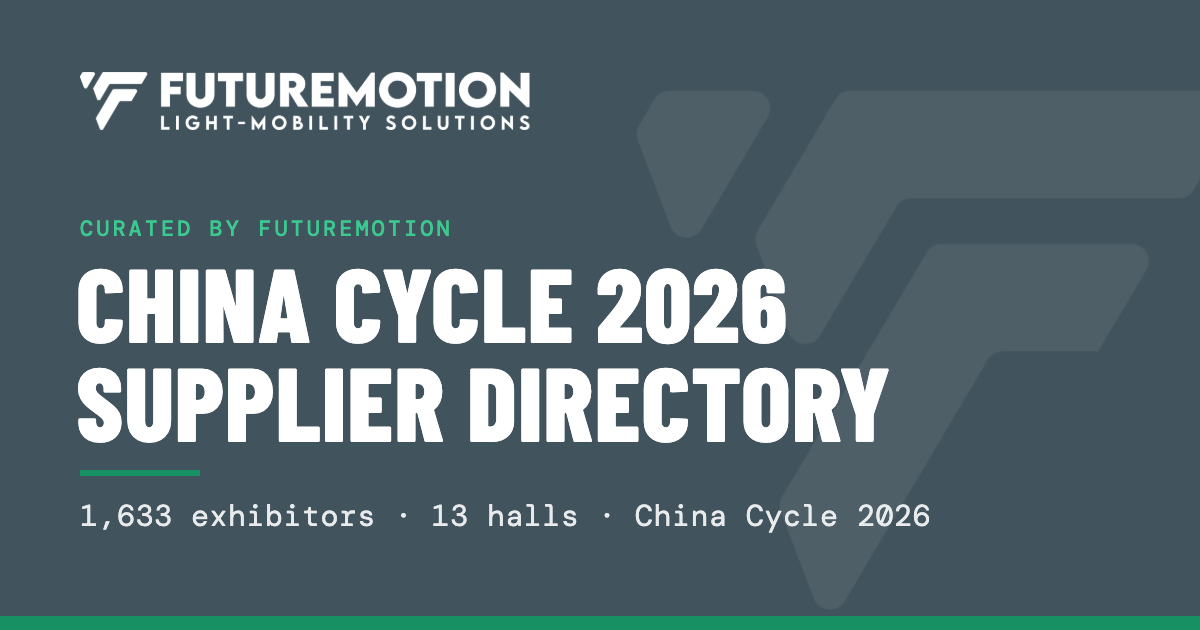
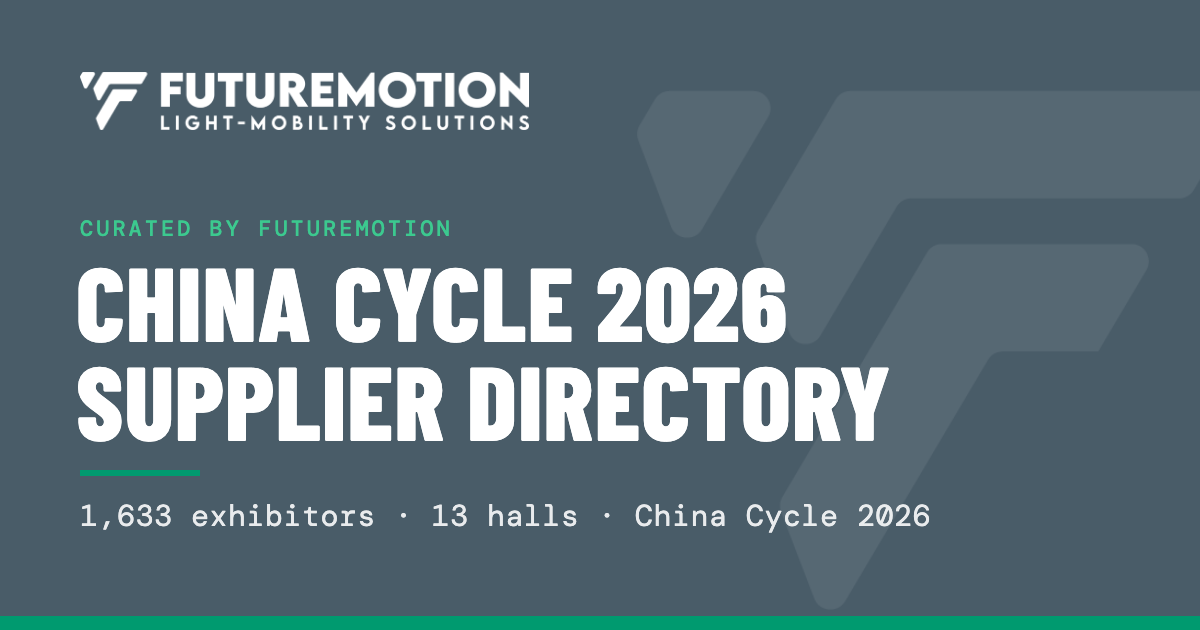
style: palette alignée sur le site FutureMotion (ardoise #495C68, vert #009A6F)
Le header, le footer, le hero Discover et l'image de partage utilisaient un
gris presque noir (#2A3742) et un vert plus clair (#1FA876) ; les valeurs du
CSS du site (extra colors du thème) sont reprises. Les jetons de texte
(charcoal, dark) ne changent pas. Contraste blanc/ardoise 6.97.

diff --git a/china_cycle_suppliers.html b/china_cycle_suppliers.html
@@ -9,7 +9,7 @@
 <link rel="icon" href="/favicon.ico" sizes="any">
 <link rel="icon" type="image/png" sizes="32x32" href="/assets/favicon-32.png">
 <link rel="apple-touch-icon" href="/assets/apple-touch-icon.png">
-<meta name="theme-color" content="#41535D">
+<meta name="theme-color" content="#495C68">
 <!-- Aperçus de lien (LinkedIn, Slack, X…) : URLs absolues, réécrites par le rendu serveur si SITE_URL est défini. -->
 <meta property="og:type" content="website">
 <meta property="og:site_name" content="FutureMotion">
@@ -34,16 +34,16 @@
   :root {
     /* FutureMotion brand palette: emerald green + cool slate + white */
     --black:      #0F1419;
-    --charcoal:   #1F2A35;   /* deep slate (replaces warm charcoal) */
-    --dark:       #2A3742;   /* primary slate from brand hero */
+    --charcoal:   #1F2A35;   /* texte : ardoise profonde */
+    --dark:       #2A3742;   /* texte : ardoise */
     --mid:        #5A6770;   /* cool mid-gray */
     --light:      #B8C0C7;   /* cool light gray */
     --bg:         #F4F6F8;   /* cool off-white surface */
     --white:      #FFFFFF;
-    --teal:       #1FA876;   /* logo emerald */
-    --teal-dark:  #16835B;
-    --teal-light: #E4F5ED;
-    --nav-bg:     #2A3742;   /* brand slate (replaces deep navy) */
+    --teal:       #009A6F;   /* logo emerald */
+    --teal-dark:  #007A58;
+    --teal-light: #E0F3EC;
+    --nav-bg:     #495C68;   /* ardoise du site FutureMotion (extra color 1 du thème) */
     --nav-text:   #FFFFFF;
     --border:     #E1E5E8;
     --shadow-sm:  0 1px 3px rgba(31,42,53,0.06);
@@ -65,7 +65,7 @@
   /* ── TOP NAV ─────────────────────────────────── */
   nav {
     background: var(--nav-bg);
-    background-image: linear-gradient(120deg, #2A3742 0%, #354450 100%);
+    background-image: linear-gradient(120deg, #495C68 0%, #57697A 100%);
     padding: 0 40px;
     height: 56px;
     display: flex;
@@ -551,7 +551,7 @@
   /* ── DISCOVER TAB ────────────────────────────────────────────────────────── */
   .discover-hero {
     background: var(--nav-bg);
-    background-image: linear-gradient(135deg, #1F2A35 0%, #2A3742 50%, #354450 100%);
+    background-image: linear-gradient(135deg, #3D4E59 0%, #495C68 50%, #57697A 100%);
     padding: 36px 40px 32px;
     border-bottom: 1px solid rgba(255,255,255,0.06);
   }
@@ -1035,7 +1035,7 @@
 .map-hall-name {
   font-family: 'DM Sans', sans-serif;
   font-size: 10px;
-  fill: #1F2A35;
+  fill: #3D4E59;
   pointer-events: none;
   user-select: none;
 }
@@ -1682,7 +1682,7 @@ const HALL_COLORS = {
   E7:{bg:'#fce4ec',c:'#880e4f',label:'E-bike Brands'},
   N1:{bg:'#ede7f6',c:'#4527a0',label:'New Products Hall'},
   W1:{bg:'#e0f7fa',c:'#00695c',label:'International Brands'},
-  W2:{bg:'#E4F5ED',c:'#1FA876',label:'Bicycles & Accessories'},
+  W2:{bg:'#E0F3EC',c:'#009A6F',label:'Bicycles & Accessories'},
   W3:{bg:'#fffde7',c:'#f9a825',label:"Children's Bikes"},
   W4:{bg:'#f1f8e9',c:'#558b2f',label:'Cycling & Outdoor'},
   W5:{bg:'#fbe9e7',c:'#bf360c',label:'Two-Wheel Brands'},
@@ -1690,7 +1690,7 @@ const HALL_COLORS = {
 
 // Category color tints — soft bg + readable fg per supplier category
 const CAT_COLORS = {
-  'Complete Bikes':              { bg:'#E4F5ED', fg:'#16835B' },
+  'Complete Bikes':              { bg:'#E0F3EC', fg:'#007A58' },
   'Frames, Forks & Parts':       { bg:'#E2E8F5', fg:'#3949AB' },
   'Tires, Rims & Parts':         { bg:'#FAEBCE', fg:'#92590B' },
   'Transmissions & Parts':       { bg:'#D9F0F2', fg:'#0F6E78' },
@@ -3099,7 +3099,7 @@ function renderMapSvg() {
         <text x="778" y="380" text-anchor="end"    class="map-compass">↦ EAST</text>
       </g>
       <g id="mapPin" style="display:none">
-        <circle cx="0" cy="0" r="13" fill="#1FA876" stroke="#FFFFFF" stroke-width="3"></circle>
+        <circle cx="0" cy="0" r="13" fill="#009A6F" stroke="#FFFFFF" stroke-width="3"></circle>
         <polygon points="0,-7 1.65,-2.27 6.66,-2.16 2.66,0.87 4.12,5.66 0,2.8 -4.12,5.66 -2.66,0.87 -6.66,-2.16 -1.65,-2.27" fill="#FFFFFF"/>
       </g>
     </svg>

diff --git a/privacy.html b/privacy.html
@@ -9,7 +9,7 @@
 <link rel="icon" href="/favicon.ico" sizes="any">
 <link rel="icon" type="image/png" sizes="32x32" href="/assets/favicon-32.png">
 <link rel="apple-touch-icon" href="/assets/apple-touch-icon.png">
-<meta name="theme-color" content="#41535D">
+<meta name="theme-color" content="#495C68">
 <!-- Email de contact injecté par le rendu serveur (CONTACT_EMAIL). -->
 <meta name="fm-contact" content="">
 <link rel="preconnect" href="https://fonts.googleapis.com">
@@ -19,8 +19,8 @@
   /* Mêmes jetons que l'annuaire (china_cycle_suppliers.html). */
   :root {
     --black: #0F1419; --charcoal: #1F2A35; --dark: #2A3742; --mid: #5A6770;
-    --bg: #F4F6F8; --white: #FFFFFF; --teal: #1FA876; --teal-dark: #16835B;
-    --border: #E1E5E8; --nav-bg: #2A3742;
+    --bg: #F4F6F8; --white: #FFFFFF; --teal: #009A6F; --teal-dark: #007A58;
+    --border: #E1E5E8; --nav-bg: #495C68;
     --mono: 'DM Mono', 'Courier New', monospace;
     --display: 'Barlow Condensed', 'Arial Narrow', sans-serif;
   }
@@ -30,7 +30,7 @@
     font-family: 'DM Sans', -apple-system, BlinkMacSystemFont, sans-serif; font-size: 15px; line-height: 1.65;
   }
   .top {
-    background: var(--nav-bg); background-image: linear-gradient(120deg, #2A3742 0%, #354450 100%);
+    background: var(--nav-bg); background-image: linear-gradient(120deg, #495C68 0%, #57697A 100%);
     height: 56px; display: flex; align-items: center; padding: 0 40px;
   }
   .top img { height: 34px; display: block; }

diff --git a/scripts/og-image.html b/scripts/og-image.html
@@ -14,7 +14,7 @@
   * { margin: 0; padding: 0; box-sizing: border-box; }
   html, body { width: 1200px; height: 630px; overflow: hidden; }
   body {
-    position: relative; background: #41535D; color: #fff;
+    position: relative; background: #495C68; color: #fff;
     font-family: 'DM Mono', 'Courier New', monospace;
   }
   /* Logo (monogramme + wordmark) passé intégralement en blanc */
@@ -36,8 +36,8 @@
     position: absolute; left: 80px; top: 496px;
     font-size: 30px; letter-spacing: 0.5px; color: rgba(255,255,255,0.88);
   }
-  .accent { position: absolute; left: 80px; top: 470px; width: 120px; height: 6px; background: #179064; }
-  .bar { position: absolute; left: 0; right: 0; bottom: 0; height: 14px; background: #179064; }
+  .accent { position: absolute; left: 80px; top: 470px; width: 120px; height: 6px; background: #009A6F; }
+  .bar { position: absolute; left: 0; right: 0; bottom: 0; height: 14px; background: #009A6F; }
 </style>
 </head>
 <body>

diff --git a/scripts/review/build_online_page.py b/scripts/review/build_online_page.py
@@ -25,8 +25,8 @@ HTML = r'''<title>Catalogue Matching</title>
 /* Layout : en-tête collant (progression + filtres), puis une carte par PDF : vignette à gauche, décision à droite. */
 :root {
   --bg: #F4F5F6; --card: #FFFFFF; --fg: #1E262B; --mid: #5A6770; --line: #DCE1E5; --line-strong: #B9C2C8;
-  --slate: #41535D; --slate-fg: #FFFFFF; --green: #179064; --green-soft: #E4F5ED; --green-fg: #0F6B49;
-  --warn-soft: #FDF1DC; --warn-fg: #8A5A00; --skip-soft: #ECEFF1; --thumb-bg: #E9ECEE; --focus: #179064;
+  --slate: #495C68; --slate-fg: #FFFFFF; --green: #009A6F; --green-soft: #E0F3EC; --green-fg: #0F6B49;
+  --warn-soft: #FDF1DC; --warn-fg: #8A5A00; --skip-soft: #ECEFF1; --thumb-bg: #E9ECEE; --focus: #009A6F;
   --display: 'Barlow Condensed', 'Arial Narrow', sans-serif; --body: 'DM Sans', system-ui, sans-serif; --mono: 'DM Mono', ui-monospace, Menlo, monospace;
 }
 @media (prefers-color-scheme: dark) { :root:not([data-theme="light"]) {
